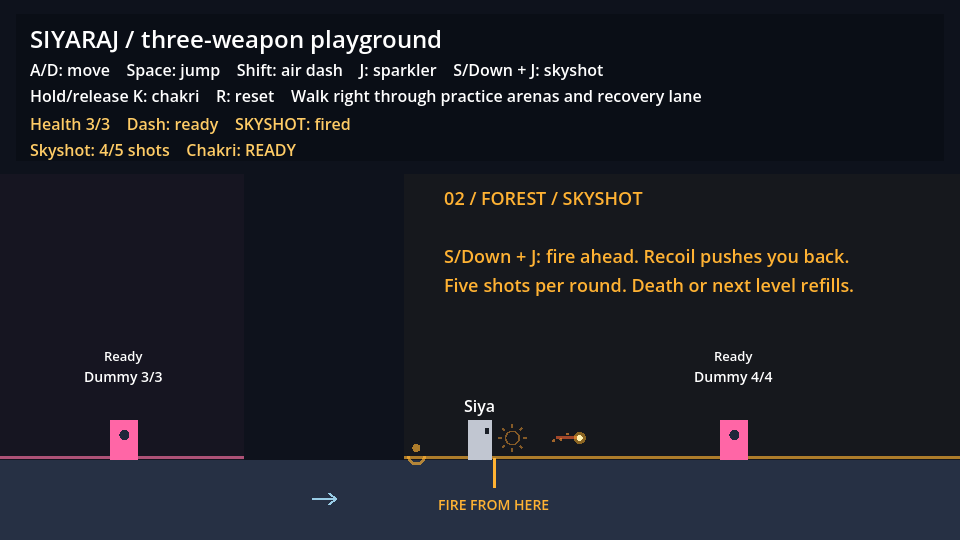
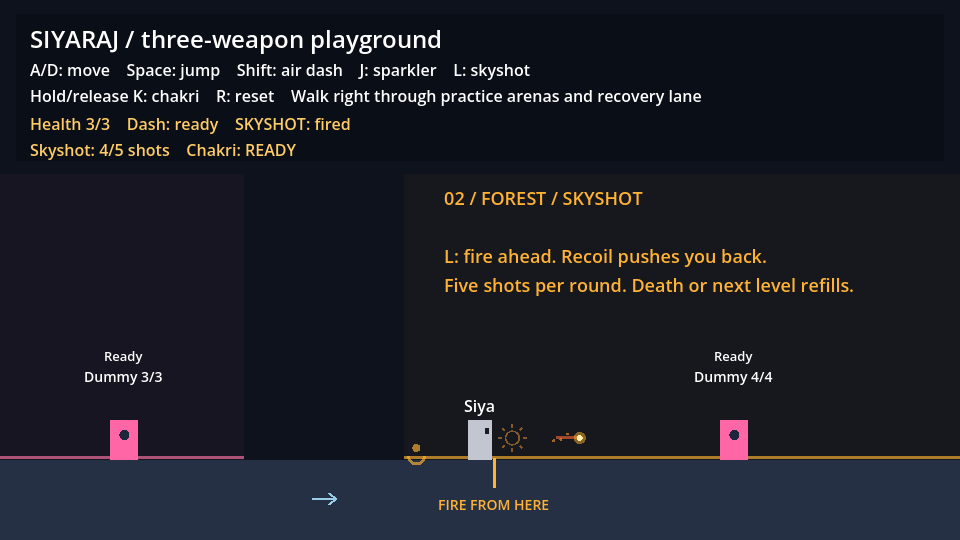
fix: bind skyshot to L

Changed region(s): [[0.4688, 0.4444, 0.875, 0.5037], [0.4688, 0.1185, 0.625, 0.1481]]

diff --git a/docs/team_workflow.md b/docs/team_workflow.md
@@ -243,7 +243,7 @@ movement feel or a two-minute first-play completion time.
   retain their current behaviour.
 - Sparkler: J for a single ground or aerial lash. Jumping preserves the swing;
   recovery presses are ignored. Dash, hurt and death cancel it.
-- Skyshot replaces anar: S/Down + J fires one projectile in the facing direction,
+- Skyshot replaces anar: L fires one projectile in the facing direction,
   including in the air. Five shots per round, with a 0.45-second firing recovery.
   Misses and wall impacts cost ammo. There are no pickups or timed refills.
 - Fresh player instances on level entry/death start with five shots; nonlethal
